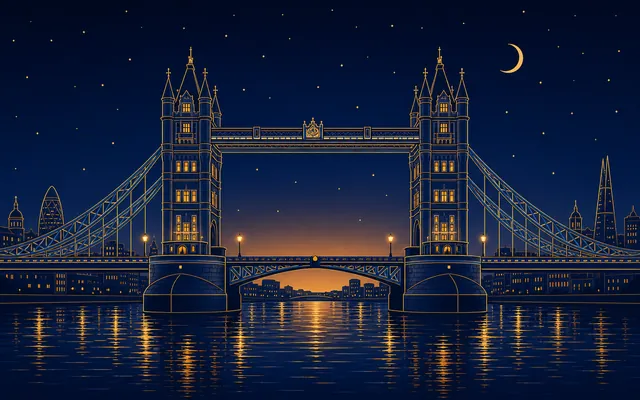
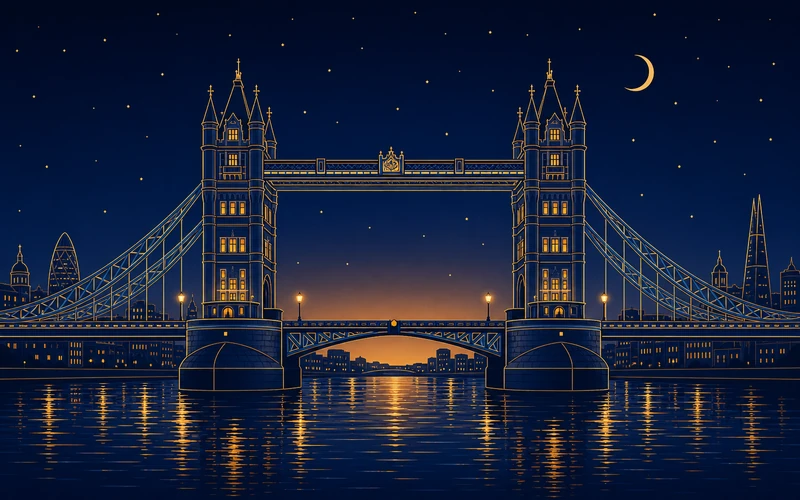
Landscape stays still (no mouse/scroll motion), sharper full-size images at higher quality
Claude-Session: https://claude.ai/code/session_014ubG8pRkjRK141yCdviMpM

diff --git a/css/style.css b/css/style.css
@@ -353,8 +353,8 @@ h2.sec.orn-h::after{transform:scaleX(-1)}
 /* карточки языков */
 .lcards{display:grid;grid-template-columns:1fr 1fr;gap:16px;margin-top:22px}
 .lc{position:relative;isolation:isolate;overflow:hidden;display:flex;flex-direction:column;align-items:flex-start;padding:30px 32px 136px;border-radius:26px}
-.lc[data-l=ko]{--la:#7CC4B5;--scene:image-set(url(../img/scene-ko-sm.webp) 1x,url(../img/scene-ko.webp) 2x);--emblem:url(../img/emblem-ko.svg);--frame:url(../img/frame-ko.svg)}
-.lc[data-l=en]{--la:#DC97A0;--scene:image-set(url(../img/scene-en-sm.webp) 1x,url(../img/scene-en.webp) 2x);--emblem:url(../img/emblem-en.svg);--frame:url(../img/frame-en.svg)}
+.lc[data-l=ko]{--la:#7CC4B5;--scene:url(../img/scene-ko.webp);--emblem:url(../img/emblem-ko.svg);--frame:url(../img/frame-ko.svg)}
+.lc[data-l=en]{--la:#DC97A0;--scene:url(../img/scene-en.webp);--emblem:url(../img/emblem-en.svg);--frame:url(../img/frame-en.svg)}
 .lc-art{position:absolute;left:0;right:0;bottom:0;height:150px;z-index:-1;background:var(--scene) 50% 100%/760px auto no-repeat,radial-gradient(60% 90px at 50% 100%,rgba(226,186,128,.34),rgba(11,21,53,0) 75%)}
 .lc-emb{width:46px;height:46px;margin-bottom:14px;background:var(--emblem) center/contain no-repeat}
 .lc h3{margin:0;font-size:38px;font-weight:500;line-height:1.1;color:var(--ivory)}
@@ -574,8 +574,8 @@ textarea{resize:vertical}
    Корейский: башня Намсан, горы, зал-ханок, сосны, волны, луна и ветка сливы, меандр «нвемун», лотос из «танчхон».
    Английский: Биг-Бен, колесо обозрения, разводной мост, капелла, фонари и розы, лоза, щит с розой.
    Атрибут data-lang на <html> ставит js/common.js; рисунки лежат в img/ и их можно заменить своими. */
-html[data-lang=ko]{--la:#7CC4B5;--scene:image-set(url(../img/scene-ko-sm.webp) 1x,url(../img/scene-ko.webp) 2x);--band:url(../img/band-ko.svg);--emblem:url(../img/emblem-ko.svg);--frame:url(../img/frame-ko.svg)}
-html[data-lang=en]{--la:#DC97A0;--scene:image-set(url(../img/scene-en-sm.webp) 1x,url(../img/scene-en.webp) 2x);--band:url(../img/band-en.svg);--emblem:url(../img/emblem-en.svg);--frame:url(../img/frame-en.svg)}
+html[data-lang=ko]{--la:#7CC4B5;--scene:url(../img/scene-ko.webp);--band:url(../img/band-ko.svg);--emblem:url(../img/emblem-ko.svg);--frame:url(../img/frame-ko.svg)}
+html[data-lang=en]{--la:#DC97A0;--scene:url(../img/scene-en.webp);--band:url(../img/band-en.svg);--emblem:url(../img/emblem-en.svg);--frame:url(../img/frame-en.svg)}
 /* языки, для которых рисунков пока нет: только свой акцент */
 html[data-lang=ja]{--la:#E3A9B8}
 html[data-lang=zh]{--la:#E0A070}
@@ -1247,9 +1247,8 @@ main.tmain{max-width:1240px}
 body:has(main.tmain) header.band .in{max-width:1240px;padding:0 16px}
 
 /* шапка курса: нарисованные пейзажи (img/hero-*.webp, gpt-image), края растворяются в небе страницы */
-html[data-lang=ko]{--hero2:image-set(url(../img/hero-ko-sm.webp) 1x,url(../img/hero-ko.webp) 2x)}
-html[data-lang=en]{--hero2:image-set(url(../img/hero-en-sm.webp) 1x,url(../img/hero-en.webp) 2x)}
-@media(min-width:1000px){html[data-lang=ko]{--hero2:url(../img/hero-ko.webp)}html[data-lang=en]{--hero2:url(../img/hero-en.webp)}}
+@media(max-width:719px){html[data-lang=ko]{--hero2:url(../img/hero-ko-sm.webp)}html[data-lang=en]{--hero2:url(../img/hero-en-sm.webp)}}
+@media(min-width:720px){html[data-lang=ko]{--hero2:url(../img/hero-ko.webp)}html[data-lang=en]{--hero2:url(../img/hero-en.webp)}}
 html:is([data-lang=ko],[data-lang=en]) header.band.course-hero{--hw:max(100vw,1100px);min-height:calc(var(--hw)*.2917 + 16px);padding-bottom:40px;box-sizing:border-box}
 html:is([data-lang=ko],[data-lang=en]) header.band.course-hero::before{
   background:var(--hero2) 100% calc(100% - 16px)/var(--hw) auto no-repeat;
@@ -1280,11 +1279,10 @@ html[data-lang=ko] .hero::after,html[data-lang=ko] header.band:not(.slim)::after
 
 /* ---------- анимации шапки: пейзаж, звёзды, горизонт ---------- */
 header.band{overflow:clip}
-html:is([data-lang=ko],[data-lang=en]) header.band:not(.slim)::before{transform:translate3d(var(--mx,0px),calc(var(--py,0px) + var(--rise,0px)),0) scale(1.03);opacity:var(--fade,1);will-change:transform}
-html:is([data-lang=ko],[data-lang=en]) .hero-art{transform:translate3d(var(--mx,0px),calc(var(--py,0px) * .6),0)}
-.band-stars{position:absolute;inset:0 0 40% 0;z-index:-1;pointer-events:none;transform:translateY(calc(var(--py,0px) * .5))}
+html:is([data-lang=ko],[data-lang=en]) header.band:not(.slim)::before{transform:translateY(var(--rise,0px));opacity:var(--fade,1)}
+.band-stars{position:absolute;inset:0 0 40% 0;z-index:-1;pointer-events:none}
 .band-stars i{position:absolute;width:var(--s);height:var(--s);border-radius:50%;background:#FFF1D6;box-shadow:0 0 6px 1px rgba(255,226,160,.8);opacity:.15}
-.band-glow{position:absolute;left:15%;right:15%;bottom:6%;height:38%;z-index:-1;pointer-events:none;opacity:.55;background:radial-gradient(50% 60% at 50% 100%,rgba(230,180,110,.35),rgba(230,180,110,0) 70%);mix-blend-mode:screen;transform:translateY(var(--py,0px))}
+.band-glow{position:absolute;left:15%;right:15%;bottom:6%;height:38%;z-index:-1;pointer-events:none;opacity:.55;background:radial-gradient(50% 60% at 50% 100%,rgba(230,180,110,.35),rgba(230,180,110,0) 70%);mix-blend-mode:screen}
 header.band h1 .hw{display:inline-block;overflow:hidden;vertical-align:top;padding-bottom:.08em}
 header.band h1 .hw>span{display:inline-block}
 @media(prefers-reduced-motion:reduce){.top nav a .rl-a,.top nav a .rl-b{transition:none}.top .acc.enter.pulse::before{animation:none}}
@@ -1325,3 +1323,4 @@ body{letter-spacing:.005em}
 .reading .gap{white-space:nowrap}.reading .gap sup{opacity:.6;margin:0 2px}
 .reading .gap input.ans{width:auto;min-width:4em;max-width:100%;display:inline-block;margin:2px 2px;padding:2px 8px;font-size:16px}
 .ex.dlg .q{line-height:1.8}
+@media(max-width:719px){html[data-lang=ko],.lc[data-l=ko]{--scene:url(../img/scene-ko-sm.webp)}html[data-lang=en],.lc[data-l=en]{--scene:url(../img/scene-en-sm.webp)}}

diff --git a/js/topbar-fx.js b/js/topbar-fx.js
@@ -111,14 +111,8 @@ function bandFx(g){
   if(sm)tl.from(sm,{opacity:0,x:-30,letterSpacing:"0.6em",duration:1.1});
   if(wd.length)tl.from(wd,{yPercent:110,rotate:4,opacity:0,filter:"blur(10px)",duration:1.1,stagger:.08},"<.1").set(wd,{clearProps:"filter"});
   if(rest.length)tl.from(rest,{y:24,opacity:0,duration:.9,stagger:.1},"<.3");
-  // пейзаж: выплывает снизу и при прокрутке уходит медленнее текста (параллакс)
-  band.style.setProperty("--py","0px");
-  tl.fromTo(band,{"--rise":"40px","--fade":0},{"--rise":"0px","--fade":1,duration:1.6,ease:"power3.out"},0);
-  let tick=false;
-  addEventListener("scroll",()=>{if(tick)return;tick=true;requestAnimationFrame(()=>{tick=false;const y=Math.min(scrollY,band.offsetHeight+200);band.style.setProperty("--py",(y*.14).toFixed(1)+"px");band.style.setProperty("--tx",(-y*.05).toFixed(1)+"px")})},{passive:true});
-  // курсор: лёгкий наклон пейзажа
-  if(matchMedia("(hover:hover)").matches){const mx=g.quickTo(band,"--mx",{duration:1.2,ease:"power3.out"});
-    band.addEventListener("pointermove",e=>{const r=band.getBoundingClientRect();mx(((e.clientX-r.left)/r.width-.5)*-24)});band.addEventListener("pointerleave",()=>mx(0))}
+  // пейзаж: один раз мягко выплывает снизу, дальше стоит на месте
+  tl.fromTo(band,{"--rise":"24px","--fade":0},{"--rise":"0px","--fade":1,duration:1.4,ease:"power3.out"},0);
 }
 
 window.KR_topfx=function(){
